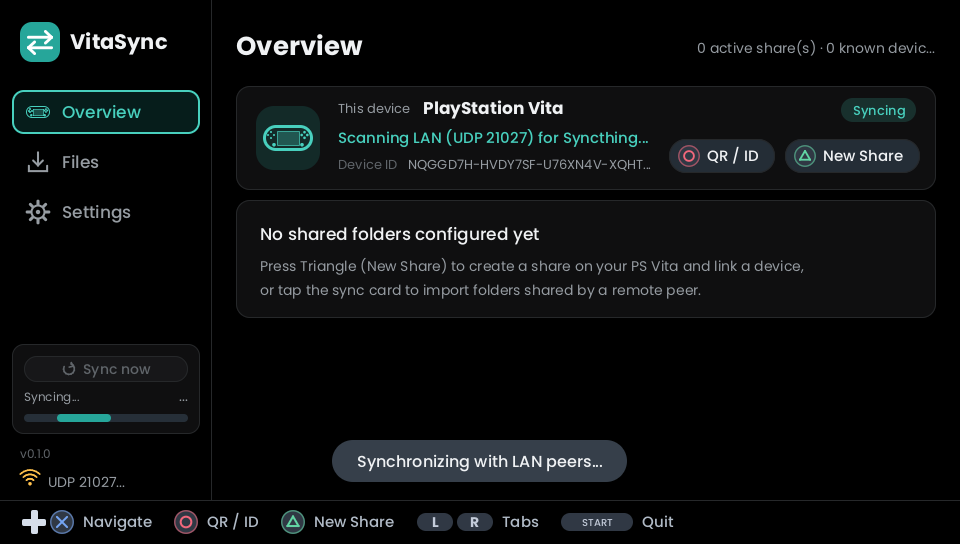
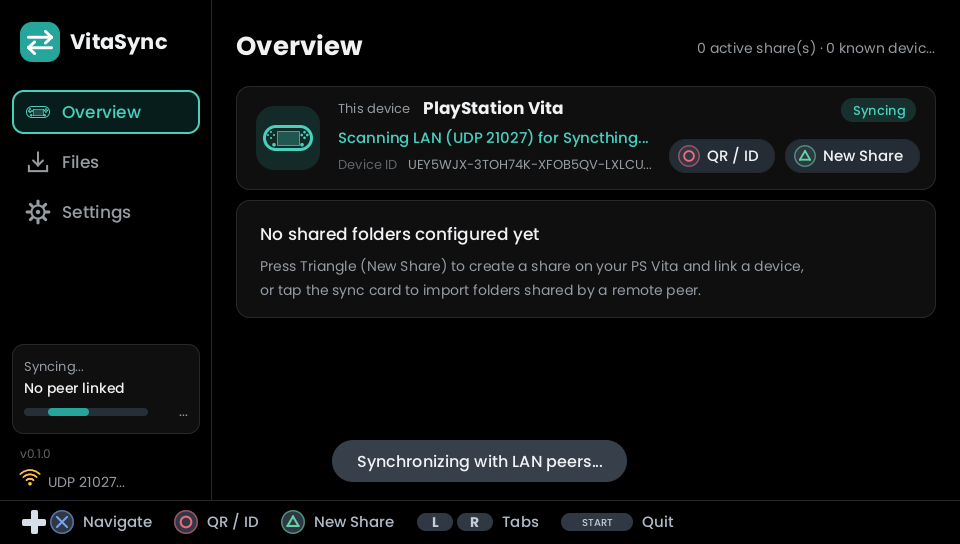
Hide Sync now button during Downloading and Uploading while keeping it in Ready

Changed region(s): [[0.0, 0.6562, 0.2188, 0.7812], [0.4375, 0.2812, 0.6875, 0.3125]]

diff --git a/crates/vita-syncthing-app/src/ui/transfer_card.rs b/crates/vita-syncthing-app/src/ui/transfer_card.rs
@@ -1,6 +1,6 @@
 //! Sidebar transfer card: the sync state (`AppState::sync_activity`) and the `Sync now` button.
-//! The button stays visible in every state: active and clickable when `Idle` or `Ready`, greyed
-//! out and non-clickable while `Downloading` or `Uploading`.
+//! The button is shown and clickable when `Idle` or `Ready`; during `Downloading` or `Uploading`
+//! it is replaced by the transfer status and progress bar, and the card is non-clickable.
 
 use crate::domain::{AppState, HitMap, Hotspot, Rect, SyncActivity, UiAction};
 use crate::ui::gfx::{with_alpha, Align, FontWeight, Gfx, Icon};
@@ -19,8 +19,8 @@ const INNER_W: i32 = SIDEBAR_W - 2 * INNER_X;
 const CTA_H: i32 = 26;
 
 /// Draws the transfer card above the sidebar's network status and declares it as a touch target
-/// (`UiAction::StartSync`) when `Idle` or `Ready` (greyed out and non-clickable while
-/// `Downloading` or `Uploading`).
+/// (`UiAction::StartSync`) when `Idle` or `Ready` (non-clickable while `Downloading` or
+/// `Uploading`).
 pub fn draw_transfer_card(
     gfx: &mut Gfx,
     th: &UiTheme,
@@ -46,39 +46,40 @@ pub fn draw_transfer_card(
     }
     gfx.rrect_outline(CARD_X, card_y, CARD_W, CARD_H, 12, 1, th.border);
 
-    draw_sync_button(gfx, th, s, card_y, !syncing);
-
     match activity {
-        SyncActivity::Ready => draw_ready(gfx, s, card_y),
-        SyncActivity::Idle => draw_idle(gfx, th, s, state, card_y),
+        SyncActivity::Ready => {
+            draw_sync_button(gfx, th, s, card_y);
+            draw_ready(gfx, s, card_y);
+        }
+        SyncActivity::Idle => {
+            draw_sync_button(gfx, th, s, card_y);
+            draw_idle(gfx, th, s, state, card_y);
+        }
         SyncActivity::Downloading => {
-            draw_transfer(
-                gfx,
-                th,
-                s.sidebar_syncing,
-                state,
-                card_y,
-                state.progress_pct,
-            );
+            draw_transfer(gfx, th, s.sidebar_syncing, s, state, card_y);
+            draw_bar(gfx, th, state, card_y, state.progress_pct);
         }
         SyncActivity::Uploading => {
+            draw_transfer(gfx, th, s.sidebar_uploading, s, state, card_y);
             // Uploads have no known total: indeterminate bar.
-            draw_transfer(gfx, th, s.sidebar_uploading, state, card_y, None);
+            draw_bar(gfx, th, state, card_y, None);
         }
     }
 }
 
-/// Draws the `Sync now` pill button at the top of the card (accented when `enabled`, greyed out
-/// while a sync is running).
-fn draw_sync_button(gfx: &mut Gfx, th: &UiTheme, s: &Strings, card_y: i32, enabled: bool) {
+/// Draws the `Sync now` pill button at the top of the card.
+fn draw_sync_button(gfx: &mut Gfx, th: &UiTheme, s: &Strings, card_y: i32) {
     let cta_y = card_y + 12;
-    let (bg, border, fg) = if enabled {
-        (th.accent_bg, with_alpha(th.accent, 160), th.accent_hi)
-    } else {
-        (with_alpha(th.border, 90), th.border, th.faint)
-    };
-    gfx.rrect(INNER_X, cta_y, INNER_W, CTA_H, CTA_H / 2, bg);
-    gfx.rrect_outline(INNER_X, cta_y, INNER_W, CTA_H, CTA_H / 2, 1, border);
+    gfx.rrect(INNER_X, cta_y, INNER_W, CTA_H, CTA_H / 2, th.accent_bg);
+    gfx.rrect_outline(
+        INNER_X,
+        cta_y,
+        INNER_W,
+        CTA_H,
+        CTA_H / 2,
+        1,
+        with_alpha(th.accent, 160),
+    );
 
     // Refresh icon and label, centred together in the button.
     let icon_w = 16;
@@ -94,7 +95,7 @@ fn draw_sync_button(gfx: &mut Gfx, th: &UiTheme, s: &Strings, card_y: i32, enabl
         (left + icon_w / 2) as f32,
         cy as f32,
         icon_w as f32,
-        fg,
+        th.accent_hi,
     );
     gfx.text_fit(
         left + icon_w + gap,
@@ -102,7 +103,7 @@ fn draw_sync_button(gfx: &mut Gfx, th: &UiTheme, s: &Strings, card_y: i32, enabl
         max_label_w,
         14,
         FontWeight::Medium,
-        fg,
+        th.accent_hi,
         Align::Left,
         s.sidebar_sync_cta,
     );
@@ -138,28 +139,50 @@ fn draw_idle(gfx: &mut Gfx, th: &UiTheme, s: &Strings, state: &AppState, card_y:
     );
 }
 
-/// A transfer runs: status title + percentage, then the progress bar (`Some(pct)` determinate,
-/// `None` indeterminate).
+/// A transfer runs: its title, then the peer label.
 fn draw_transfer(
     gfx: &mut Gfx,
     th: &UiTheme,
     title: &str,
+    s: &Strings,
     state: &AppState,
     card_y: i32,
-    pct: Option<u32>,
 ) {
+    gfx.text(
+        INNER_X,
+        card_y + 22,
+        13,
+        FontWeight::Regular,
+        th.dim,
+        Align::Left,
+        title,
+    );
+    gfx.text_fit(
+        INNER_X,
+        card_y + 44,
+        INNER_W,
+        14,
+        FontWeight::Medium,
+        th.text,
+        Align::Left,
+        &s.text(&state.peer_label),
+    );
+}
+
+/// Progress bar and its percentage: `Some(pct)` determinate, `None` indeterminate.
+fn draw_bar(gfx: &mut Gfx, th: &UiTheme, state: &AppState, card_y: i32, pct: Option<u32>) {
     let pct_str = match pct {
         Some(p) => {
             let p = p.min(100);
-            draw_progress(gfx, INNER_X, card_y + 70, INNER_W, 8, p, th.accent);
+            draw_progress(gfx, INNER_X, card_y + 64, SIDEBAR_W - 88, 8, p, th.accent);
             format!("{}%", p)
         }
         None => {
             draw_indeterminate_progress(
                 gfx,
                 INNER_X,
-                card_y + 70,
-                INNER_W,
+                card_y + 64,
+                SIDEBAR_W - 88,
                 8,
                 state.progress_anim_tick,
                 th.accent,
@@ -167,19 +190,9 @@ fn draw_transfer(
             "...".to_owned()
         }
     };
-    gfx.text_fit(
-        INNER_X,
-        card_y + 53,
-        INNER_W - 36,
-        12,
-        FontWeight::Regular,
-        th.dim,
-        Align::Left,
-        title,
-    );
     gfx.text(
         SIDEBAR_W - INNER_X,
-        card_y + 53,
+        card_y + 68,
         12,
         FontWeight::Medium,
         th.dim,

diff --git a/crates/vita-syncthing-app/tests/main_screens.rs b/crates/vita-syncthing-app/tests/main_screens.rs
@@ -148,30 +148,18 @@ fn test_sidebar_tabs_and_transfer_card() {
 fn transfer_bar_drawn(state: &mut AppState, card: Rect) -> bool {
     let mut gfx = Gfx::new();
     draw_frame(&mut gfx, state);
-    (card.y + 70..card.y + 78).any(|y| {
-        (24..SIDEBAR_W - 24).any(|x| gfx.pixels[(y * GFX_W + x) as usize] == C_PROGRESS_TRACK)
+    (card.y + 64..card.y + 72).any(|y| {
+        (24..SIDEBAR_W - 64).any(|x| gfx.pixels[(y * GFX_W + x) as usize] == C_PROGRESS_TRACK)
     })
 }
 
-/// Draws the frame and tells whether the transfer card's `Sync now` button uses its active
-/// accent colour (as opposed to its greyed-out disabled colour).
-fn sync_button_is_accented(state: &mut AppState, card: Rect) -> bool {
+/// Draws the frame and tells whether the transfer card's `Sync now` button is drawn.
+fn sync_button_is_drawn(state: &mut AppState, card: Rect) -> bool {
     let mut gfx = Gfx::new();
     draw_frame(&mut gfx, state);
     let th = UiTheme::for_mode(state.theme_mode);
-    // Inside the button pill, checking for the bright accent text/icon pixels.
     (card.y + 12..card.y + 38)
         .any(|y| (28..SIDEBAR_W - 28).any(|x| gfx.pixels[(y * GFX_W + x) as usize] == th.accent_hi))
-}
-
-/// Draws the frame and tells whether the transfer card's `Sync now` button is drawn in its
-/// greyed-out (`th.faint`) state.
-fn sync_button_is_greyed_out(state: &mut AppState, card: Rect) -> bool {
-    let mut gfx = Gfx::new();
-    draw_frame(&mut gfx, state);
-    let th = UiTheme::for_mode(state.theme_mode);
-    (card.y + 12..card.y + 38)
-        .any(|y| (28..SIDEBAR_W - 28).any(|x| gfx.pixels[(y * GFX_W + x) as usize] == th.faint))
 }
 
 #[test]
@@ -199,23 +187,21 @@ fn test_transfer_card_sync_button_states() {
     let card = rect_of(&mut state, UiAction::StartSync);
     for language in LANGUAGES {
         state.language = language;
-        // Idle (no session): active `Sync now` button and touching it syncs.
-        assert!(sync_button_is_accented(&mut state, card), "{language:?}");
+        // Idle (no session): `Sync now` button is drawn and touching it syncs.
+        assert!(sync_button_is_drawn(&mut state, card), "{language:?}");
     }
     assert_eq!(tap_rect(&mut state, &repo, card), UserCommand::StartSync);
     // Ready (connected, up to date): `Sync now` button stays visible and clickable.
     state.session_connected = true;
-    assert!(sync_button_is_accented(&mut state, card));
+    assert!(sync_button_is_drawn(&mut state, card));
     assert_eq!(tap_rect(&mut state, &repo, card), UserCommand::StartSync);
-    // Transfers: `Sync now` button is greyed out and non-clickable.
+    // Transfers: `Sync now` button is hidden and card is non-clickable.
     state.uploading = true;
-    assert!(!sync_button_is_accented(&mut state, card));
-    assert!(sync_button_is_greyed_out(&mut state, card));
+    assert!(!sync_button_is_drawn(&mut state, card));
     assert_eq!(tap_rect(&mut state, &repo, card), UserCommand::None);
     state.uploading = false;
     state.sync_in_progress = true;
-    assert!(!sync_button_is_accented(&mut state, card));
-    assert!(sync_button_is_greyed_out(&mut state, card));
+    assert!(!sync_button_is_drawn(&mut state, card));
     assert_eq!(tap_rect(&mut state, &repo, card), UserCommand::None);
     let _ = std::fs::remove_dir_all(&dir);
 }
